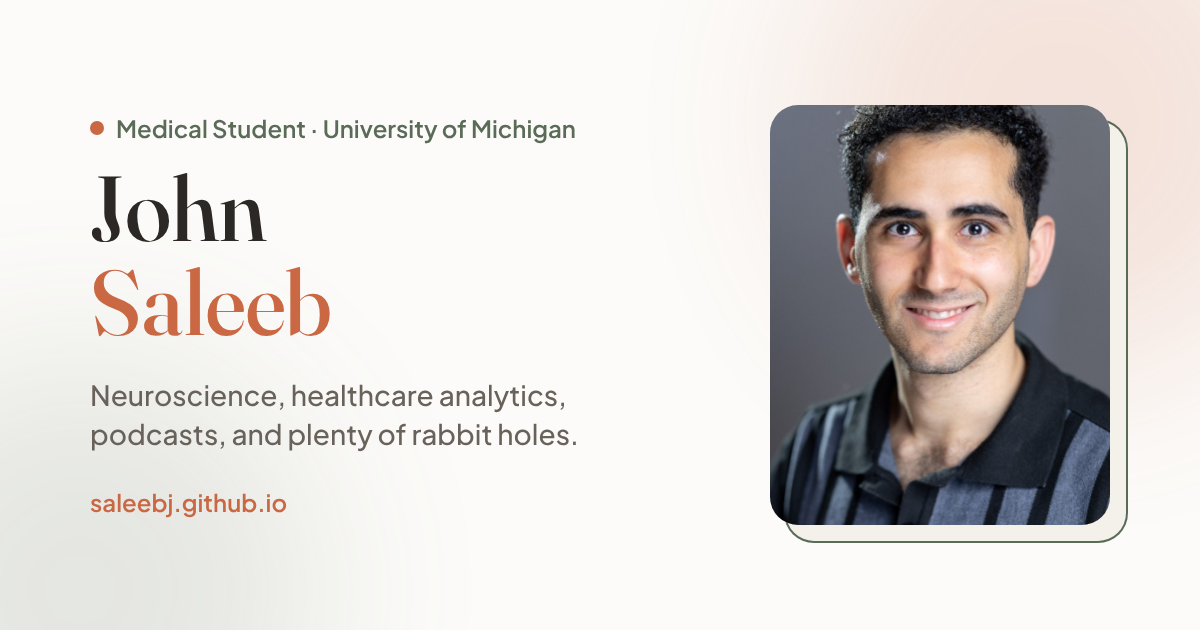
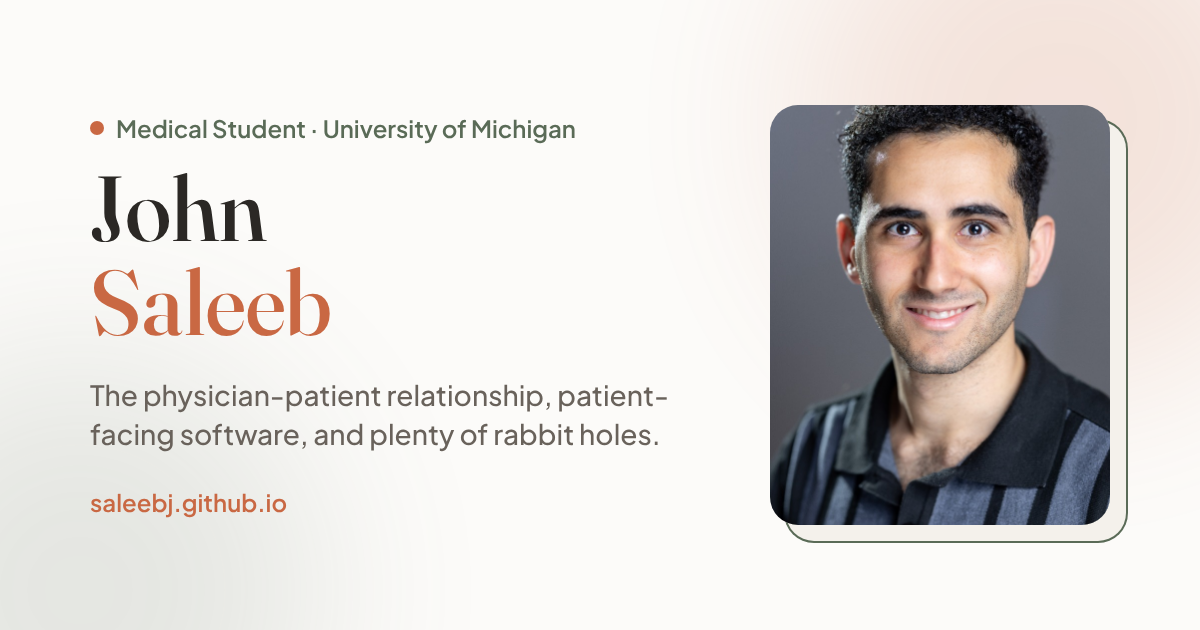
Refocus bio on the physician-patient relationship; add Ubben feature (#8)
- Replace the neuroscience focus with the physician-patient relationship,
  patient-facing software, and wearable hardware experience (home, about,
  research goals, site description, preview image)
- About: Jeff Ubben Posse Fellowship section with photo, Posse interview
  and PR.com announcement links; home card links to it
- Personal Projects: remove emojis

Claude-Session: https://claude.ai/code/session_01AX4NMhvRhiGvoxVxQNFXnv

Changed region(s): [[0.0617, 0.6032, 0.555, 0.7238]]

diff --git a/assets/css/main.scss b/assets/css/main.scss
@@ -691,6 +691,43 @@ strong {
   margin-top: 1rem;
 }
 
+// --- FEATURE (photo + text) ---
+.feature-section {
+  display: grid;
+  grid-template-columns: 1fr 1.2fr;
+  gap: 2.5rem;
+  align-items: center;
+  margin: 4rem 0;
+  scroll-margin-top: 100px;
+
+  .feature-image img {
+    width: 100%;
+    border-radius: 20px;
+    display: block;
+    box-shadow: 0 15px 35px rgba(0,0,0,0.08);
+  }
+
+  .project-tag {
+    display: inline-block;
+    padding: 0.25rem 0.75rem;
+    border-radius: 30px;
+    font-size: 0.8rem;
+    font-weight: 600;
+    background-color: rgba($accent-secondary, 0.1);
+    color: $accent-secondary;
+    margin-bottom: 0.75rem;
+  }
+
+  h2 { font-size: 2rem; }
+  p { color: $text-muted; margin-bottom: 1.5rem; }
+
+  .feature-links {
+    display: flex;
+    flex-wrap: wrap;
+    gap: 1rem;
+  }
+}
+
 // --- CONTACT ---
 .contact-section {
   margin: 4rem 0 2rem;
@@ -723,6 +760,10 @@ strong {
 
   .hero-actions {
     justify-content: center;
+  }
+
+  .feature-section {
+    grid-template-columns: 1fr;
   }
 
   .about-grid,

diff --git a/about.md b/about.md
@@ -2,12 +2,12 @@
 layout: default
 title: About Me
 permalink: /about/
-description: "About John Saleeb: neuroscience, healthcare analytics, and a life outside the lab."
+description: "About John Saleeb: medical student, the physician-patient relationship, and patient-facing technology."
 ---
 
 <h1 class="page-title">About Me</h1>
 <p class="page-intro">
-  I'm John, a first-year medical student at the University of Michigan. I like big questions about the brain and health, and I like answering them with data.
+  I'm John, a first-year medical student at the University of Michigan. I'm drawn to the systems behind our care experience: what strains the physician-patient relationship, and how patient-facing software can help.
   Here's the short version of how I got here and what I care about.
 </p>
 
@@ -30,17 +30,36 @@ description: "About John Saleeb: neuroscience, healthcare analytics, and a life 
   <div class="about-card">
     <span class="project-tag">Fellowship</span>
     <h3>Jeff Ubben Posse Fellow</h3>
-    <p>2024 fellow, shadowing leaders such as Dr. Bryan T. Kelly, CEO of Hospital for Special Surgery.</p>
+    <p>2024 fellow, mentored by Dr. Bryan T. Kelly, CEO of Hospital for Special Surgery. <a href="#ubben">More below</a>.</p>
   </div>
 </section>
 
 <section class="goals-section">
   <h2>What I Care About</h2>
   <ul class="goals-list">
-    <li><strong>Better care through data:</strong> using analytics to make surgery safer and pain management smarter.</li>
-    <li><strong>Technology that reaches everyone:</strong> low-cost diagnostics and wearables that work outside big hospitals.</li>
-    <li><strong>Health equity:</strong> finding where the system leaves people behind, and fixing it.</li>
+    <li><strong>The physician-patient relationship:</strong> understanding the pressures that strain it, from time and paperwork to the systems around each visit.</li>
+    <li><strong>Patient-facing software:</strong> tools that ease that tension and help patients feel heard and informed.</li>
+    <li><strong>Building real things:</strong> experience with wearable technology across hardware, mechanical, and electrical engineering.</li>
   </ul>
+</section>
+
+<section class="feature-section" id="ubben">
+  <div class="feature-image">
+    <img src="{{ '/assets/images/ubben-fellowship.jpg' | relative_url }}" alt="John Saleeb during his 2024 Jeff Ubben Posse Fellowship" loading="lazy">
+  </div>
+  <div class="feature-text">
+    <span class="project-tag">2024 Fellowship</span>
+    <h2>Jeff Ubben Posse Fellowship</h2>
+    <p>
+      In summer 2024, as a Northwestern Posse Scholar, I was one of five students selected as a Jeff Ubben Posse Fellow.
+      I was paired with Dr. Bryan T. Kelly, CEO of Hospital for Special Surgery, and spent the summer seeing how a leading hospital is run.
+      Afterward, I interviewed Dr. Kelly about medicine, orthopedics, and leadership.
+    </p>
+    <div class="feature-links">
+      <a href="https://www.possefoundation.org/news-and-events/ubben-posse-fellow-interviews-dr-bryan-t-kelly-md-mba" target="_blank" rel="noopener" class="btn btn-primary">Read My Interview</a>
+      <a href="https://www.pr.com/press-release/917737" target="_blank" rel="noopener" class="btn btn-secondary">Fellowship Announcement</a>
+    </div>
+  </div>
 </section>
 
 <section class="contact-section">

diff --git a/index.md b/index.md
@@ -1,15 +1,15 @@
 ---
 layout: default
 title: Home
-description: "John Saleeb is a first-year medical student at the University of Michigan working in neuroscience, healthcare analytics, and medical devices."
+description: "John Saleeb is a first-year medical student at the University of Michigan interested in the physician-patient relationship and the systems and software that shape care."
 ---
 
 <section class="hero-section">
   <div class="hero-text">
     <h1>Hi, I'm <br><span>John Saleeb</span></h1>
     <p>
-      I'm a first-year medical student at the University of Michigan and a Northwestern neuroscience alum.
-      I work where neuroscience, data science, and healthcare analytics meet, building technology-driven solutions for clinical outcomes, medical devices, and health equity.
+      I'm a first-year medical student at the University of Michigan, interested in the systems that create our care experience.
+      I want to understand what strains the physician-patient relationship, and how patient-facing software can ease that tension. Along the way I've worked hands-on with wearable health technology, across hardware, mechanical, and electrical engineering.
     </p>
     <div class="hero-actions">
       <a href="{{ '/research/' | relative_url }}" class="btn btn-primary">See My Research</a>
@@ -26,18 +26,18 @@ description: "John Saleeb is a first-year medical student at the University of M
   
   <div class="quick-stats">
     <div class="stat-card">
-      <h3>Neuroscience</h3>
-      <p>Majored in Neuroscience at Northwestern University, studying brain-behavior relationships and clinical neuro-technologies.</p>
+      <h3>Physician-Patient Relationship</h3>
+      <p>Studying what strains the relationship between physicians and patients, and how patient-facing software can relieve that tension.</p>
     </div>
     
     <div class="stat-card">
-      <h3>Healthcare Analytics</h3>
-      <p>Applying analytics and data science to surgical outcomes and healthcare delivery, through research with teams at Duke and beyond.</p>
+      <h3>Wearables &amp; Analytics</h3>
+      <p>Hands-on experience with wearable technology across mechanical and electrical engineering, plus analytics research on surgical outcomes and care delivery.</p>
     </div>
     
     <div class="stat-card">
       <h3>Ubben Posse Fellow</h3>
-      <p>2024 Jeff Ubben Posse Fellow, shadowing industry leaders like Dr. Bryan T. Kelly (CEO, Hospital for Special Surgery).</p>
+      <p>2024 Jeff Ubben Posse Fellow, mentored by Dr. Bryan T. Kelly, CEO of Hospital for Special Surgery. <a href="{{ '/about/#ubben' | relative_url }}">Read more</a>.</p>
     </div>
   </div>
 </section>

diff --git a/research.md b/research.md
@@ -4,7 +4,7 @@ title: Research
 permalink: /research/
 redirect_from:
   - /projects/
-description: "Explore John Saleeb's research and future goals in healthcare, medical devices, and neuroscience."
+description: "Explore John Saleeb's research and future goals in healthcare, patient-facing technology, and medical devices."
 ---
 
 <h1 class="page-title">Research</h1>
@@ -58,13 +58,13 @@ description: "Explore John Saleeb's research and future goals in healthcare, med
   <h2>Where I'm Headed</h2>
   <ul class="goals-list">
     <li>
-      <strong>Translational AI in Medicine:</strong> Designing closed-loop clinician alert systems using stream-processed wearable data to diagnose cardiovascular anomalies dynamically.
+      <strong>Strengthening the Physician-Patient Relationship:</strong> Understanding what strains the connection between physicians and patients, and building patient-facing software that eases it.
     </li>
     <li>
       <strong>Surgical Care Pathways:</strong> Creating data-informed personalized pain regimes to lower standard opioid prescriptions post-surgery across major orthopedic departments.
     </li>
     <li>
-      <strong>Global Health Tech Equity:</strong> Expanding my work in low-cost clinical screening technologies to rural and under-resourced international clinics, lowering boundaries to early cardiology diagnostics.
+      <strong>Wearables That Reach Patients:</strong> Building on my hardware experience with wearable sensors to make low-cost diagnostics part of everyday care.
     </li>
   </ul>
 </section>

diff --git a/personal.md b/personal.md
@@ -47,7 +47,6 @@ description: "John Saleeb's personal projects: the Buzzer Beater and Mama I Made
     <p>Always on the lookout for a new spot to try. Send me your favorite restaurant and I'll probably go.</p>
     <div class="project-footer">
       <span class="project-tech">Eating • Exploring</span>
-      <span>🍜</span>
     </div>
   </div>
 
@@ -57,7 +56,6 @@ description: "John Saleeb's personal projects: the Buzzer Beater and Mama I Made
     <p>Hours lost learning way too much about very specific things, like how olive oil is made or why sidewalks are built the way they are.</p>
     <div class="project-footer">
       <span class="project-tech">Olive Oil • Sidewalks • Whatever's Next</span>
-      <span>🫒</span>
     </div>
   </div>
 
@@ -67,7 +65,6 @@ description: "John Saleeb's personal projects: the Buzzer Beater and Mama I Made
     <p>When I'm not recording my own, I'm listening to stories about how great companies and founders got their start.</p>
     <div class="project-footer">
       <span class="project-tech">Founders • Acquired • How I Built This</span>
-      <span>🎧</span>
     </div>
   </div>
 </div>
